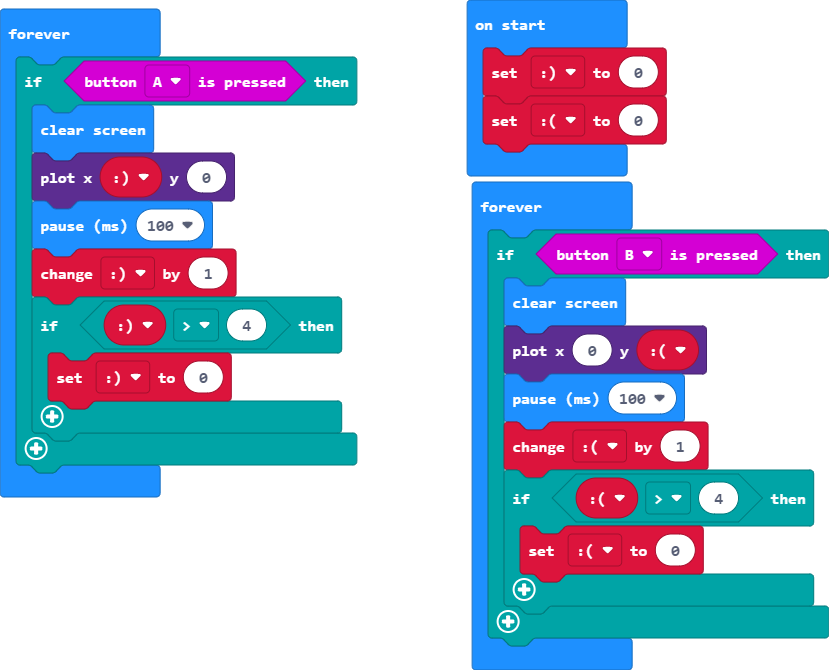
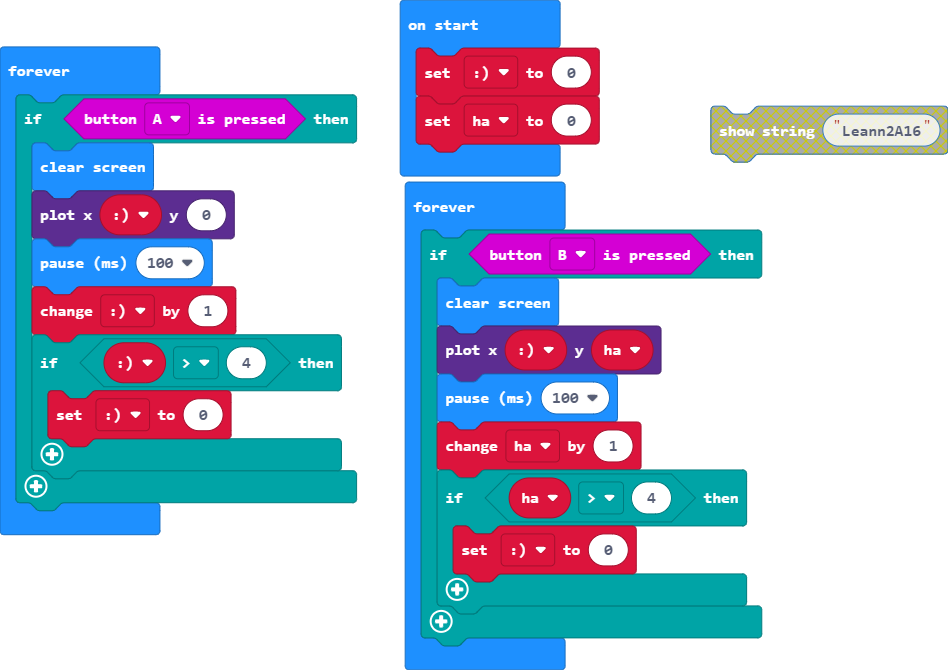
Update main.blocks, main.ts

diff --git a/main.ts b/main.ts
@@ -1,5 +1,5 @@
 let _ = 0
-let _2 = 0
+let ha = 0
 basic.forever(function () {
     if (input.buttonIsPressed(Button.A)) {
         basic.clearScreen()
@@ -14,11 +14,11 @@ basic.forever(function () {
 basic.forever(function () {
     if (input.buttonIsPressed(Button.B)) {
         basic.clearScreen()
-        led.plot(0, _2)
+        led.plot(_, ha)
         basic.pause(100)
-        _2 += 1
-        if (_2 > 4) {
-            _2 = 0
+        ha += 1
+        if (ha > 4) {
+            _ = 0
         }
     }
 })
